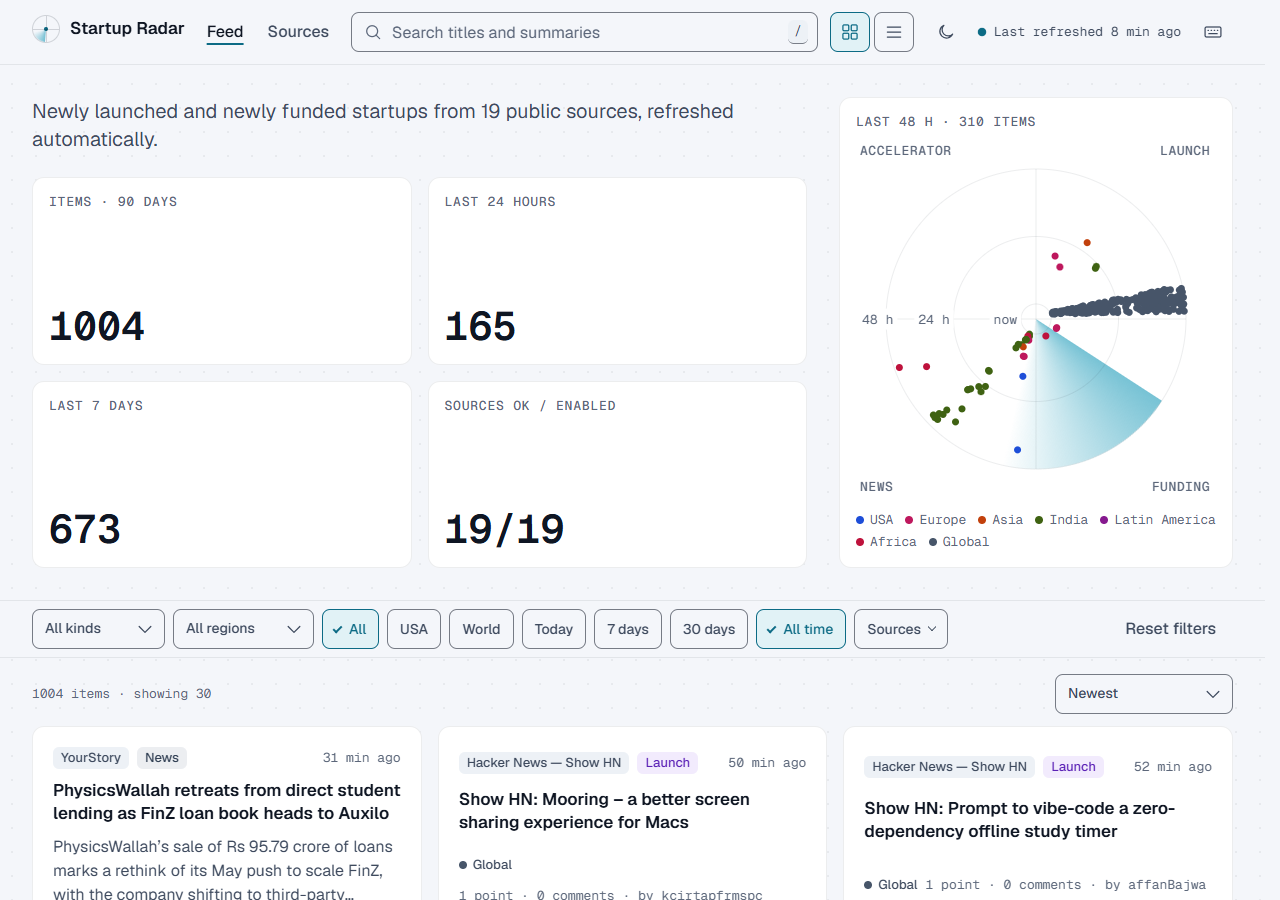
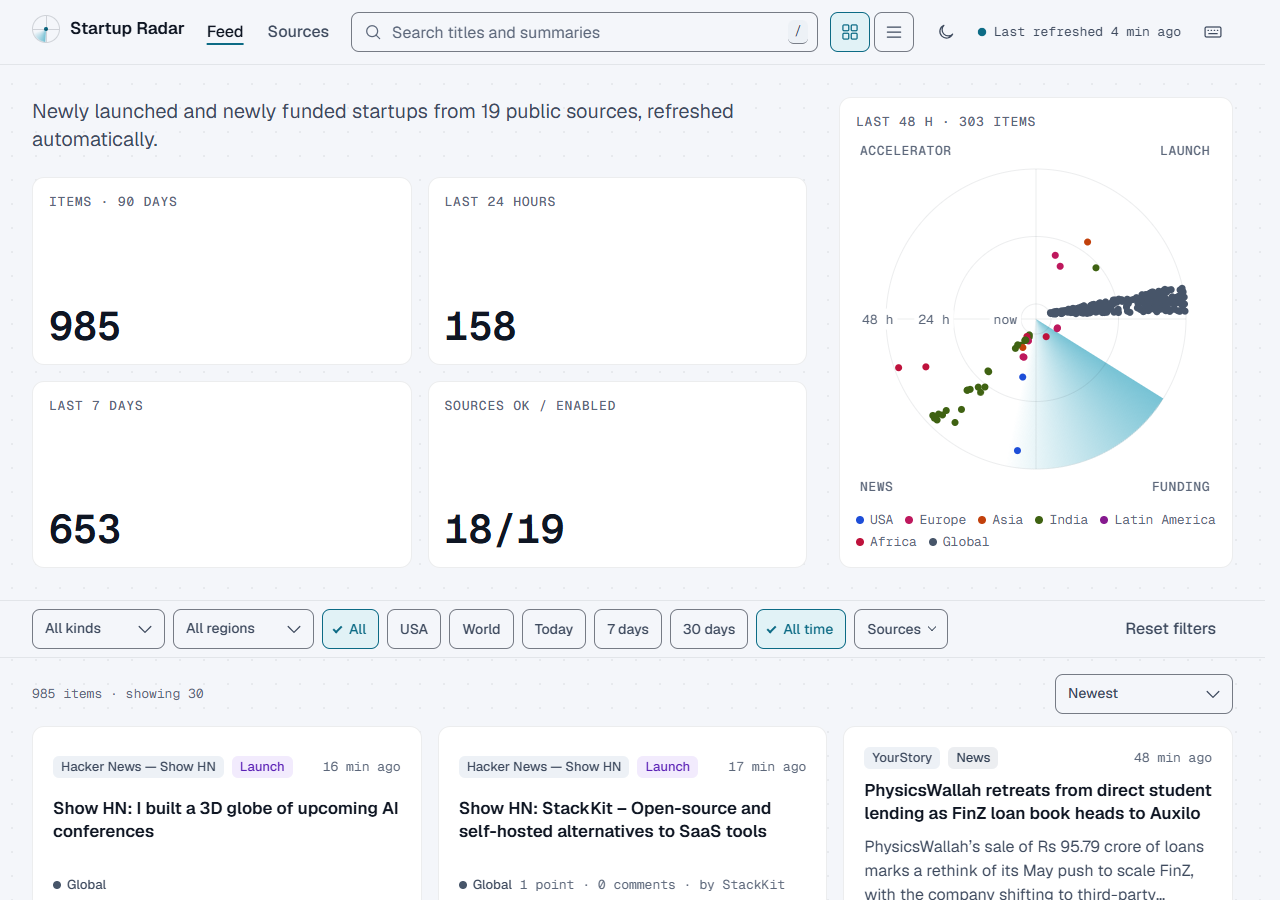
docs: live screenshots after polish
All eight images re-captured from https://sudish007.github.io/startup-radar/ (fresh contexts, service worker blocked, viewport only; Edge via Playwright). README: radar description (sub-wedge fan, caption channel), radar.test.js and budget.test.js summaries, the sheet caption's item count.

diff --git a/README.md b/README.md
@@ -66,9 +66,11 @@ step and no third-party script. What it does:
 - **Mission-control hero**: four stat tiles (items in the 90-day feed, last 24 hours, last
   7 days, sources OK / enabled) counted from the real data files, and a radar panel at 1024 px
   and wider on devices with a mouse or trackpad, with one blip per item published in the last
-  48 h: kind by quadrant, region by angle, age by distance from the centre. The caption counts
-  the blips before the 400 cap. Hovering a blip shows the item, clicking opens it. The feed list
-  is the keyboard and touch equivalent; the radar adds nothing you cannot reach there.
+  48 h: kind by quadrant, region by sub-wedge (items of one region fan out inside it, placed by a
+  hash of the item URL so a render is stable), age by distance from the centre; the ring captions
+  sit on the 9 o'clock half of the crosshair, which blips keep clear. The caption counts the
+  blips before the 400 cap. Hovering a blip shows the item, clicking opens it. The feed list is
+  the keyboard and touch equivalent; the radar adds nothing you cannot reach there.
 - **In-app detail drawer.** Clicking a card (or pressing `Enter` on a highlighted one) opens
   the item in a side drawer with every field the source actually provided (points, comments,
   votes, batch, round, amount, website...), a prev/next pair that walks the current result list,
@@ -627,9 +629,9 @@ refreshes); the 1 GB volume in `.railway/railway.ts` assumes the Hobby plan, so 
 
 ## 11. Screenshots
 
-Captured with real data by `scripts/screenshots.py` (parity mode against a local run); `home.png`,
-`detail.png`, `home-light.png`, `home-mobile.png` and `sources.png` were re-captured from the live
-GitHub Pages site. Every image is the viewport only (1280 × 900 unless noted).
+All eight images were captured from the live GitHub Pages site after the polish pass (Edge via
+Playwright, the same viewports and states as `scripts/screenshots.py` parity mode). Every image is
+the viewport only (1280 × 900 unless noted).
 
 ![Home page, dark theme: glass top bar with the Startup Radar wordmark, search field, grid/list toggle and theme button; hero with four stat tiles and the radar panel; the sticky filter bar; the first rows of startup cards in three columns](docs/screenshots/home.png)
 
@@ -643,7 +645,7 @@ GitHub Pages site. Every image is the viewport only (1280 × 900 unless noted).
 
 ![Home page on a 390 px wide phone viewport: compact top bar with the Filters button, stat tiles two by two, single-column cards](docs/screenshots/home-mobile.png)
 
-![Phone viewport with the filter bottom sheet open: Kind and Region selects, Scope and Published chips, the collapsed Sources disclosure, Reset filters and the "Show 967 items" button](docs/screenshots/home-mobile-sheet.png)
+![Phone viewport with the filter bottom sheet open: Kind and Region selects, Scope and Published chips, the collapsed Sources disclosure, Reset filters and the "Show 985 items" button](docs/screenshots/home-mobile-sheet.png)
 
 ![Sources page: configured / enabled / with-errors status strip, the table of all 21 adapters with enabled state, kind, region, last successful fetch, last error and item count, followed by the links-only list](docs/screenshots/sources.png)
 
@@ -729,10 +731,12 @@ seconds). The GitHub Pages workflow runs the same command before every build.
   the fields present (Discussion omitted when it equals the item URL, Website only for a valid
   http(s) URL that differs from it), `hostnameOf`, `safeHttpUrl` rejecting `javascript:`, `data:`
   and relative strings, `pluralize`.
-- `radar.test.js`: `public/radar.js` geometry: quadrant per kind, region slot order, radius
-  exactly 0.10 R / 0.55 R / R at 0 / 24 / 48 h, future dates clamped, items older than 48 h
-  excluded, jitter within ±4°, the 400 cap keeps the newest items while `radarCount` stays the
-  honest pre-cap count.
+- `radar.test.js`: `public/radar.js` geometry: quadrant per kind at every age, ordered and
+  contiguous region sub-wedges, radius exactly 0.10 R / 0.55 R / R at 0 / 24 / 48 h, future
+  dates clamped, items older than 48 h excluded, the deterministic spread inside [0.1, 0.9] of
+  the sub-wedge (150 identical launches give ≥ 5 distinct angles), blips clear of the crosshair
+  lines and of the ring-caption plates, the 400 cap keeps the newest items while `radarCount`
+  stays the honest pre-cap count.
 - `app.test.js`: the HTTP app on an ephemeral port: `/health` shape, `/api/items` validation and
   clamping, `/api/refresh` 404/401/409/200, `/data/*.json` routes and `no-store`, HTML pages,
   security headers, `/sw.js` with the injected version and `Cache-Control: no-cache`, the
@@ -744,9 +748,9 @@ seconds). The GitHub Pages workflow runs the same command before every build.
   `eval`, `new Function` or `window.open` in `public/*.js`; `'_blank'` appears only inside
   `extLink` in `ui.js`; no `<iframe>`, `<embed>` or `<object>`.
 - `budget.test.js`: the home page set (`index.html`, `styles.css`, `theme.js`, `ui.js`,
-  `app.js`, `filter.js`, `format.js`, `radar.js`) and the sources set each stay under 120 000
-  bytes, `theme.js` under 1 024 bytes, `pwa.js` + `sw.js` under 10 000 bytes, no off-origin
-  `<script src>` and no Google Fonts references.
+  `app.js`, `filter.js`, `format.js`, `radar.js`) and the sources set each stay under 125 000
+  bytes as deployed (LF line endings), `theme.js` under 1 024 bytes, `pwa.js` + `sw.js` under
+  10 000 bytes, no off-origin `<script src>` and no Google Fonts references.
 
 `scripts/verify-pages.mjs <baseUrl> [--max-age-hours N]` (also `npm run verify:pages -- <baseUrl>`)
 checks a deployed site over HTTP without a browser: the HTML, CSS and JS use only relative URLs,
